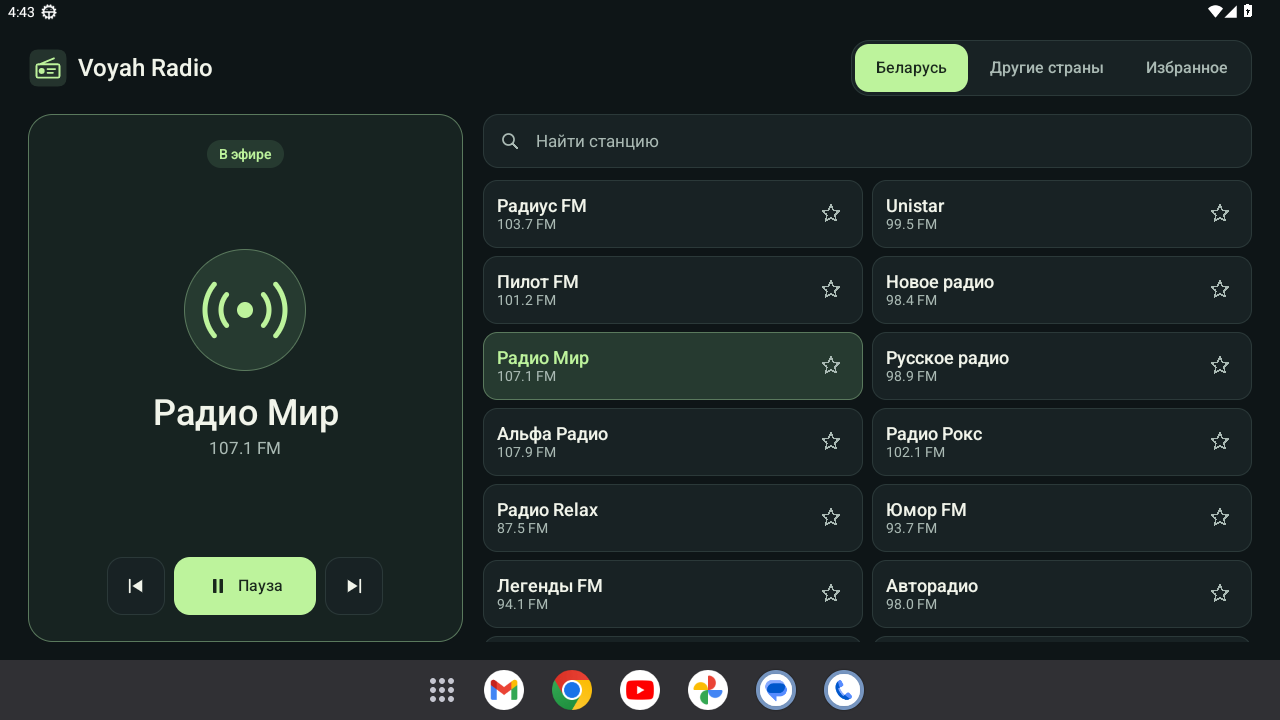
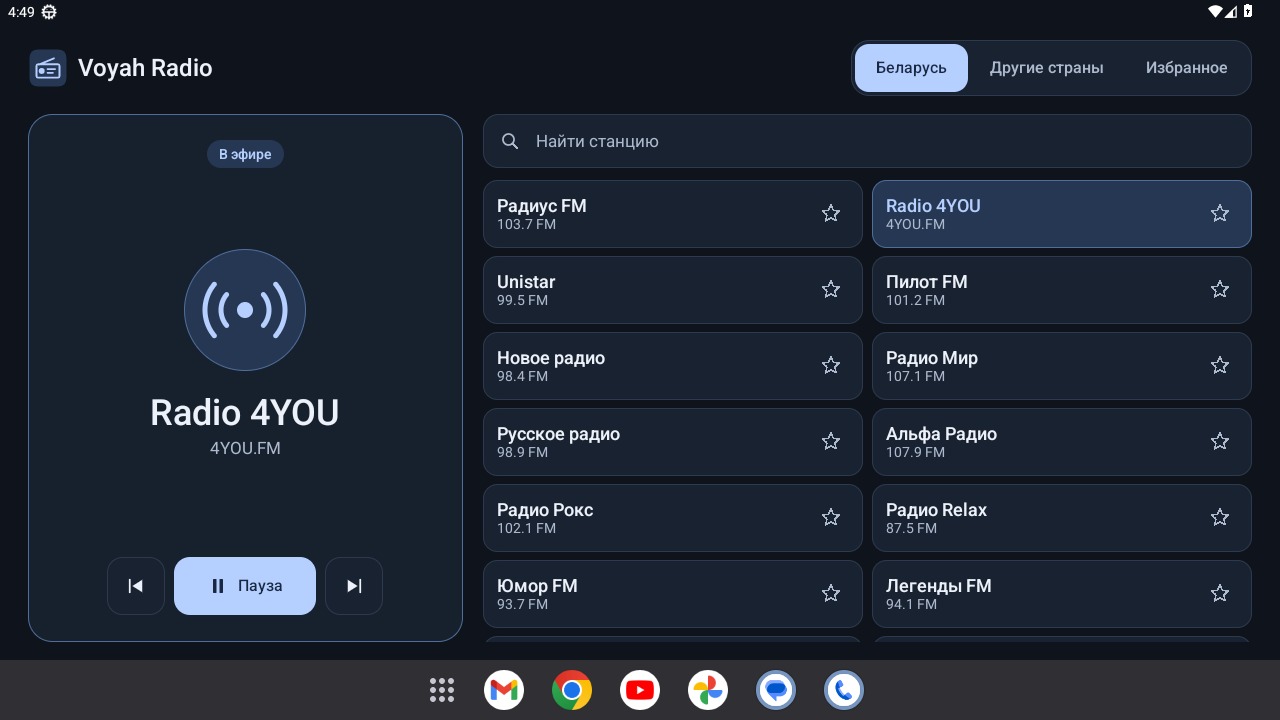
Use a graphite radio theme and add Radio 4YOU

diff --git a/android/voyah-radio/app/src/main/java/app/voyahradio/ui/RadioActivity.java b/android/voyah-radio/app/src/main/java/app/voyahradio/ui/RadioActivity.java
@@ -48,18 +48,6 @@ import static android.view.ViewGroup.LayoutParams.WRAP_CONTENT;
 import static app.voyahradio.ui.RadioGlyph.Kind.*;
 
 public final class RadioActivity extends Activity {
-    private static final int BACKGROUND = 0xFF0E1517;
-    private static final int PANEL = 0xFF172321;
-    private static final int SURFACE = 0xFF182224;
-    private static final int EDGE = 0xFF2B3939;
-    private static final int SELECTED = 0xFF263A30;
-    private static final int SELECTED_EDGE = 0xFF5A795D;
-    private static final int TEXT = 0xFFF1F4EA;
-    private static final int MUTED = 0xFFAABAB4;
-    private static final int ACCENT = 0xFFBDF39C;
-    private static final int ON_ACCENT = 0xFF19271C;
-    private static final int ERROR = 0xFFFFBAAA;
-    private static final int WARM = 0xFFE1C992;
 
     private final EnumMap<RadioViewModel.Tab, TextView> tabs = new EnumMap<>(RadioViewModel.Tab.class);
     private final ArrayList<StationRow> rows = new ArrayList<>();
@@ -153,7 +141,7 @@ public final class RadioActivity extends Activity {
         listColumns = width >= 1000 ? 2 : 1;
 
         LinearLayout page = vertical();
-        page.setBackgroundColor(BACKGROUND);
+        page.setBackgroundColor(getColor(R.color.radio_background));
         page.setFocusableInTouchMode(true);
         int outer = wide ? 28 : 16;
         page.setPadding(dp(outer), dp(wide ? 16 : 12), dp(outer), dp(outer > 16 ? 18 : 12));
@@ -169,7 +157,7 @@ public final class RadioActivity extends Activity {
         logo.setImageResource(R.drawable.radio_icon);
         logo.setImportantForAccessibility(View.IMPORTANT_FOR_ACCESSIBILITY_NO);
         brand.addView(logo, size(40, 40));
-        TextView title = text(24, TEXT, true);
+        TextView title = text(24, getColor(R.color.radio_text), true);
         title.setText(R.string.app_name);
         LinearLayout.LayoutParams titleParams = wrap(WRAP_CONTENT);
         titleParams.leftMargin = dp(10);
@@ -178,7 +166,7 @@ public final class RadioActivity extends Activity {
 
         LinearLayout tabGroup = horizontal();
         tabGroup.setPadding(dp(4), dp(4), dp(4), dp(4));
-        tabGroup.setBackground(shape(SURFACE, 18, EDGE));
+        tabGroup.setBackground(shape(getColor(R.color.radio_surface), 18, getColor(R.color.radio_edge)));
         LinearLayout.LayoutParams groupParams = wrap(wide ? WRAP_CONTENT : MATCH_PARENT);
         if (!wide) groupParams.topMargin = dp(12);
         header.addView(tabGroup, groupParams);
@@ -206,7 +194,7 @@ public final class RadioActivity extends Activity {
     }
 
     private void addTab(LinearLayout group, RadioViewModel.Tab tab, int label, boolean wide) {
-        TextView button = text(16, TEXT, true);
+        TextView button = text(16, getColor(R.color.radio_text), true);
         button.setText(label);
         button.setGravity(Gravity.CENTER);
         button.setMinHeight(dp(48));
@@ -223,9 +211,9 @@ public final class RadioActivity extends Activity {
         panel.setGravity(Gravity.CENTER);
         panel.setPadding(dp(compact ? 14 : 25), dp(compact ? 13 : 26),
                 dp(compact ? 14 : 25), dp(compact ? 14 : 27));
-        panel.setBackground(shape(PANEL, compact ? 18 : 24, SELECTED_EDGE));
+        panel.setBackground(shape(getColor(R.color.radio_panel), compact ? 18 : 24, getColor(R.color.radio_selected_edge)));
 
-        playbackStatus = text(14, ACCENT, true);
+        playbackStatus = text(14, getColor(R.color.radio_accent), true);
         playbackStatus.setGravity(Gravity.CENTER);
         playbackStatus.setPadding(dp(12), dp(6), dp(12), dp(6));
         playbackStatus.setAccessibilityLiveRegion(View.ACCESSIBILITY_LIVE_REGION_POLITE);
@@ -234,19 +222,19 @@ public final class RadioActivity extends Activity {
         if (!compact) {
             View upperSpace = new View(this);
             panel.addView(upperSpace, new LinearLayout.LayoutParams(1, 0, 1f));
-            RadioGlyph signal = new RadioGlyph(this, SIGNAL, ACCENT, 96);
-            signal.setBackground(shape(SELECTED, 62, SELECTED_EDGE));
+            RadioGlyph signal = new RadioGlyph(this, SIGNAL, getColor(R.color.radio_accent), 96);
+            signal.setBackground(shape(getColor(R.color.radio_selected), 62, getColor(R.color.radio_selected_edge)));
             panel.addView(signal, size(122, 122));
         }
 
-        stationTitle = text(compact ? 27 : 36, TEXT, true);
+        stationTitle = text(compact ? 27 : 36, getColor(R.color.radio_text), true);
         stationTitle.setGravity(Gravity.CENTER);
         stationTitle.setMaxLines(2);
         stationTitle.setEllipsize(TextUtils.TruncateAt.END);
         LinearLayout.LayoutParams titleParams = wrap(MATCH_PARENT);
         titleParams.topMargin = dp(compact ? 8 : 21);
         panel.addView(stationTitle, titleParams);
-        stationLabel = text(compact ? 14 : 17, MUTED, false);
+        stationLabel = text(compact ? 14 : 17, getColor(R.color.radio_muted), false);
         stationLabel.setGravity(Gravity.CENTER);
         LinearLayout.LayoutParams labelParams = wrap(MATCH_PARENT);
         labelParams.topMargin = dp(4);
@@ -264,19 +252,19 @@ public final class RadioActivity extends Activity {
         panel.addView(controls, controlsParams);
 
         int buttonSize = compact ? 50 : 58;
-        previous = iconButton(PREVIOUS, TEXT, R.string.previous, () -> model.step(-1));
-        previous.setBackground(actionBackground(SURFACE, 15, EDGE));
+        previous = iconButton(PREVIOUS, getColor(R.color.radio_text), R.string.previous, () -> model.step(-1));
+        previous.setBackground(actionBackground(getColor(R.color.radio_surface), 15, getColor(R.color.radio_edge)));
         controls.addView(previous, size(buttonSize, buttonSize));
 
         playButton = horizontal();
         playButton.setGravity(Gravity.CENTER);
         playButton.setPadding(dp(14), 0, dp(16), 0);
         playButton.setMinimumWidth(dp(compact ? 120 : 142));
-        playButton.setBackground(actionBackground(ACCENT, 16, Color.TRANSPARENT));
+        playButton.setBackground(actionBackground(getColor(R.color.radio_accent), 16, Color.TRANSPARENT));
         buttonLike(playButton, null, () -> model.togglePlayback());
-        playIcon = new RadioGlyph(this, PLAY, ON_ACCENT, 24);
+        playIcon = new RadioGlyph(this, PLAY, getColor(R.color.radio_on_accent), 24);
         playButton.addView(playIcon, size(26, 26));
-        playLabel = text(16, ON_ACCENT, true);
+        playLabel = text(16, getColor(R.color.radio_on_accent), true);
         playLabel.setImportantForAccessibility(View.IMPORTANT_FOR_ACCESSIBILITY_NO);
         LinearLayout.LayoutParams playText = wrap(WRAP_CONTENT);
         playText.leftMargin = dp(7);
@@ -285,8 +273,8 @@ public final class RadioActivity extends Activity {
         playParams.setMargins(dp(9), 0, dp(9), 0);
         controls.addView(playButton, playParams);
 
-        next = iconButton(NEXT, TEXT, R.string.next, () -> model.step(1));
-        next.setBackground(actionBackground(SURFACE, 15, EDGE));
+        next = iconButton(NEXT, getColor(R.color.radio_text), R.string.next, () -> model.step(1));
+        next.setBackground(actionBackground(getColor(R.color.radio_surface), 15, getColor(R.color.radio_edge)));
         controls.addView(next, size(buttonSize, buttonSize));
         return panel;
     }
@@ -296,17 +284,17 @@ public final class RadioActivity extends Activity {
 
         LinearLayout searchBar = horizontal();
         searchBar.setGravity(Gravity.CENTER_VERTICAL);
-        searchBar.setBackground(shape(SURFACE, 15, EDGE));
+        searchBar.setBackground(shape(getColor(R.color.radio_surface), 15, getColor(R.color.radio_edge)));
         searchBar.setPadding(dp(5), 0, dp(3), 0);
         catalog.addView(searchBar, size(MATCH_PARENT, 54));
-        searchBar.addView(new RadioGlyph(this, SEARCH, MUTED, 24), size(44, MATCH_PARENT));
+        searchBar.addView(new RadioGlyph(this, SEARCH, getColor(R.color.radio_muted), 24), size(44, MATCH_PARENT));
         search = new EditText(this);
         search.setSingleLine();
         search.setInputType(InputType.TYPE_CLASS_TEXT | InputType.TYPE_TEXT_FLAG_NO_SUGGESTIONS);
         search.setImeOptions(EditorInfo.IME_ACTION_SEARCH | EditorInfo.IME_FLAG_NO_EXTRACT_UI);
         search.setHint(R.string.station_search);
-        search.setTextColor(TEXT);
-        search.setHintTextColor(MUTED);
+        search.setTextColor(getColor(R.color.radio_text));
+        search.setHintTextColor(getColor(R.color.radio_muted));
         search.setTextSize(17);
         search.setPadding(dp(4), 0, 0, 0);
         search.setBackgroundColor(Color.TRANSPARENT);
@@ -327,8 +315,8 @@ public final class RadioActivity extends Activity {
             }
             @Override public void afterTextChanged(Editable edit) {}
         });
-        clear = iconButton(CLEAR, MUTED, R.string.clear_search, () -> search.setText(""));
-        clear.setBackground(actionBackground(SURFACE, 13, Color.TRANSPARENT));
+        clear = iconButton(CLEAR, getColor(R.color.radio_muted), R.string.clear_search, () -> search.setText(""));
+        clear.setBackground(actionBackground(getColor(R.color.radio_surface), 13, Color.TRANSPARENT));
         searchBar.addView(clear, size(48, 48));
 
         FrameLayout listFrame = new FrameLayout(this);
@@ -344,7 +332,7 @@ public final class RadioActivity extends Activity {
         stationList = vertical();
         stationList.setPadding(0, 0, 0, dp(6));
         catalogScroll.addView(stationList, new ScrollView.LayoutParams(MATCH_PARENT, WRAP_CONTENT));
-        emptyMessage = text(18, MUTED, false);
+        emptyMessage = text(18, getColor(R.color.radio_muted), false);
         emptyMessage.setGravity(Gravity.CENTER);
         emptyMessage.setPadding(dp(20), 0, dp(20), 0);
         listFrame.addView(emptyMessage, new FrameLayout.LayoutParams(MATCH_PARENT, MATCH_PARENT));
@@ -357,8 +345,9 @@ public final class RadioActivity extends Activity {
                 TextView button = tabs.get(tab);
                 boolean selected = tab == state.tab;
                 button.setSelected(selected);
-                button.setTextColor(selected ? ON_ACCENT : MUTED);
-                button.setBackground(actionBackground(selected ? ACCENT : SURFACE, 14, Color.TRANSPARENT));
+                button.setTextColor(selected ? getColor(R.color.radio_on_accent) : getColor(R.color.radio_muted));
+                int fill = getColor(selected ? R.color.radio_accent : R.color.radio_surface);
+                button.setBackground(actionBackground(fill, 14, Color.TRANSPARENT));
             }
         }
 
@@ -380,20 +369,20 @@ public final class RadioActivity extends Activity {
         setText(stationTitle, state.selected.name);
         setText(stationLabel, state.selected.label);
         setText(playbackStatus, getString(PlaybackText.label(state.playback.status)));
-        int statusColor = state.playback.failed() ? ERROR : switch (state.playback.status) {
-            case LIVE -> ACCENT;
-            case CONNECTING, BUFFERING, RECONNECTING -> WARM;
-            default -> MUTED;
+        int statusColor = state.playback.failed() ? getColor(R.color.radio_error) : switch (state.playback.status) {
+            case LIVE -> getColor(R.color.radio_accent);
+            case CONNECTING, BUFFERING, RECONNECTING -> getColor(R.color.radio_warm);
+            default -> getColor(R.color.radio_muted);
         };
         if (playbackStatus.getCurrentTextColor() != statusColor || playbackStatus.getBackground() == null) {
             playbackStatus.setTextColor(statusColor);
-            playbackStatus.setBackground(shape(SELECTED, 30, Color.TRANSPARENT));
+            playbackStatus.setBackground(shape(getColor(R.color.radio_selected), 30, Color.TRANSPARENT));
         }
         boolean playing = state.playback.active();
         int action = playing ? R.string.pause : (state.playback.failed() ? R.string.retry : R.string.play);
         setText(playLabel, getString(action));
         playButton.setContentDescription(getString(action));
-        playIcon.appearance(playing ? PAUSE : PLAY, ON_ACCENT);
+        playIcon.appearance(playing ? PAUSE : PLAY, getColor(R.color.radio_on_accent));
         boolean canStep = state.stations.size() > 1
                 || (state.stations.size() == 1 && state.stations.get(0) != state.selected);
         previous.setEnabled(canStep);
@@ -451,13 +440,13 @@ public final class RadioActivity extends Activity {
             buttonLike(listen, station.name, () -> model.select(station));
             tile.addView(listen, new LinearLayout.LayoutParams(0, WRAP_CONTENT, 1f));
 
-            name = text(18, TEXT, true);
+            name = text(18, getColor(R.color.radio_text), true);
             name.setText(station.name);
             name.setMaxLines(1);
             name.setEllipsize(TextUtils.TruncateAt.END);
             name.setImportantForAccessibility(View.IMPORTANT_FOR_ACCESSIBILITY_NO);
             listen.addView(name, wrap(MATCH_PARENT));
-            TextView label = text(14, MUTED, false);
+            TextView label = text(14, getColor(R.color.radio_muted), false);
             label.setText(station.label);
             label.setMaxLines(1);
             label.setEllipsize(TextUtils.TruncateAt.END);
@@ -467,7 +456,7 @@ public final class RadioActivity extends Activity {
             favorite = new FrameLayout(RadioActivity.this);
             favorite.setBackground(actionBackground(Color.TRANSPARENT, 14, Color.TRANSPARENT));
             buttonLike(favorite, null, () -> model.toggleFavorite(station));
-            star = new RadioGlyph(RadioActivity.this, STAR, MUTED, 24);
+            star = new RadioGlyph(RadioActivity.this, STAR, getColor(R.color.radio_muted), 24);
             favorite.addView(star, new FrameLayout.LayoutParams(MATCH_PARENT, MATCH_PARENT));
             LinearLayout.LayoutParams favoriteParams = size(54, 54);
             favoriteParams.rightMargin = dp(5);
@@ -477,15 +466,18 @@ public final class RadioActivity extends Activity {
         void render(boolean active, boolean isFavorite) {
             if (selected == null || selected != active) {
                 selected = active;
-                tile.setBackground(shape(active ? SELECTED : SURFACE, 14, active ? SELECTED_EDGE : EDGE));
+                int fill = getColor(active ? R.color.radio_selected : R.color.radio_surface);
+                int border = getColor(active ? R.color.radio_selected_edge : R.color.radio_edge);
+                tile.setBackground(shape(fill, 14, border));
                 listen.setSelected(active);
-                name.setTextColor(active ? ACCENT : TEXT);
+                name.setTextColor(active ? getColor(R.color.radio_accent) : getColor(R.color.radio_text));
             }
             if (saved == null || saved != isFavorite) {
                 saved = isFavorite;
                 favorite.setContentDescription(getString(
                         isFavorite ? R.string.remove_favorite : R.string.add_favorite, station.name));
-                star.appearance(isFavorite ? STAR_FILLED : STAR, isFavorite ? ACCENT : MUTED);
+                int tint = getColor(isFavorite ? R.color.radio_accent : R.color.radio_muted);
+                star.appearance(isFavorite ? STAR_FILLED : STAR, tint);
             }
         }
     }
@@ -531,10 +523,17 @@ public final class RadioActivity extends Activity {
 
     private RippleDrawable actionBackground(int color, int radius, int stroke) {
         int[][] states = {{android.R.attr.state_focused}, {android.R.attr.state_pressed}, {}};
-        int[] colors = {0x40BDF39C, 0x44BDF39C, 0x22BDF39C};
-        if (color == ACCENT) colors = new int[]{0x5519271C, 0x4019271C, 0x3319271C};
+        int accent = getColor(R.color.radio_accent);
+        int onAccent = getColor(R.color.radio_on_accent);
+        int[] colors = color == accent
+                ? new int[]{withAlpha(onAccent, 0x55), withAlpha(onAccent, 0x40), withAlpha(onAccent, 0x33)}
+                : new int[]{withAlpha(accent, 0x40), withAlpha(accent, 0x44), withAlpha(accent, 0x22)};
         return new RippleDrawable(new ColorStateList(states, colors), shape(color, radius, stroke),
                 shape(Color.WHITE, radius, Color.TRANSPARENT));
+    }
+
+    private static int withAlpha(int color, int alpha) {
+        return Color.argb(alpha, Color.red(color), Color.green(color), Color.blue(color));
     }
 
     private TextView text(int sp, int color, boolean emphasis) {

diff --git a/android/voyah-radio/README.md b/android/voyah-radio/README.md
@@ -1,14 +1,14 @@
 # Voyah Radio
 
-Internet radio for the Voyah Free center display. The app uses large controls in a landscape layout and adapts to narrower Android screens. It supports Android 9 and later and provides English and Russian interface text.
+Internet radio for the Voyah Free center display. The dark graphite theme uses a cool blue accent and large controls. The landscape layout adapts to narrower Android screens. It supports Android 9 and later and provides English and Russian interface text.
 
-![Voyah Radio playing a Belarusian station on a 1280 × 720 Android emulator](docs/screenshots/radio-playing.png)
+![Voyah Radio playing Radio 4YOU on a 1280 × 720 Android emulator](docs/screenshots/radio-playing.png)
 
 ## Install and listen
 
 Open the signed `VoyahRadio-v0.1.0.apk` from `dist/` with the head unit's Android package installer. The head unit needs internet access to play stations.
 
-The Belarus and International tabs show the built-in catalog. Tap a station to listen or tap its star to save it to Favorites. Search accepts station names, common aliases and frequencies. The app remembers the last station and resumes only when you press Play. Android's media session carries the current station and playback controls while you switch apps. The player tries the next stream URL when a station has an alternate and its first connection fails.
+The built-in catalog has 48 stations, including Radius FM and Radio 4YOU in the Belarus tab. Tap a station to listen or tap its star to save it to Favorites. Search accepts station names, common aliases and frequencies. The app remembers the last station and resumes only when you press Play. Android's media session carries the current station and playback controls while you switch apps. The player tries the next stream URL when a station has an alternate and its first connection fails.
 
 ## Build
 
@@ -24,4 +24,4 @@ The player reads `app/src/main/assets/stations.json` and connects directly to th
 
 ## Verification
 
-The signed APK was installed on an Android 13 emulator with a 1280 × 720 landscape display. Live streams tested were Radius FM (AAC), Radio MIR and Russkoe Radio Moscow (HLS), and France Inter (MP3). The emulator also verified background playback, system pause, search, and saved favorites after restarting the app. The Voyah Free head unit remains untested.
+The signed APK was installed on an Android 13 emulator with a 1280 × 720 landscape display. Live streams tested were Radius FM (AAC), Radio MIR and Russkoe Radio Moscow (HLS), and Radio 4YOU and France Inter (MP3). The emulator also verified background playback, system pause, search, and saved favorites after restarting the app. The Voyah Free head unit remains untested.
